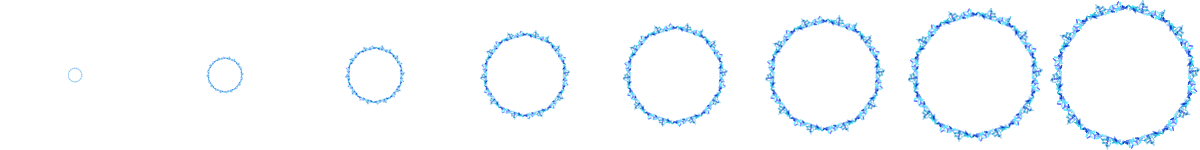
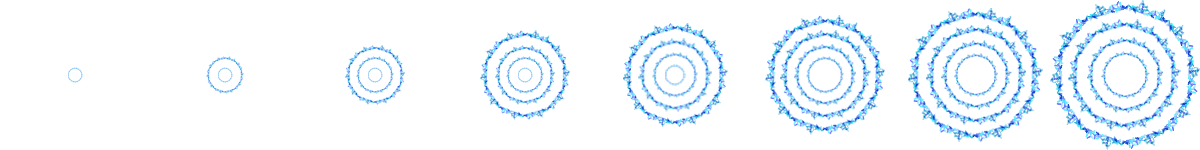
airstrike assets an animations added

diff --git a/main.py b/main.py
@@ -53,7 +53,7 @@ wood_frame_full = pg.image.load('assets/images/ui_backgrounds/wood_frame_full.pn
 health_bar_side_panel = pg.image.load('assets/images/ui_backgrounds/health_bar.png').convert_alpha()
 gold_bar = pg.image.load('assets/images/ui_backgrounds/gold_bar.png').convert_alpha()
 airstrike_banner = pg.image.load('assets/images/ui_backgrounds/airstrike_banner.png').convert_alpha()
-arrow_strike_ability_image = pg.image.load('assets/images/buttons/arrow_strike_button.png').convert_alpha()
+poison_strike_ability_image = pg.image.load('assets/images/buttons/poison_strike_button.png').convert_alpha()
 ice_strike_ability_image = pg.image.load('assets/images/buttons/ice_strike_button.png').convert_alpha()
 fire_strike_ability_image = pg.image.load('assets/images/buttons/fire_strike_button.png').convert_alpha()
 earth_strike_ability_image = pg.image.load('assets/images/buttons/earth_strike_button.png').convert_alpha()
@@ -121,10 +121,6 @@ menu_base_button_image = pg.image.load('assets/images/buttons/Menu_base_button.p
 mute_button_image = pg.image.load('assets/images/buttons/mute_button.png').convert_alpha()
 mute_button_pressed_image = pg.image.load('assets/images/buttons/mute_button_pressed.png').convert_alpha()
 
-#airstrike images
-cursor_ice_airstrike = pg.image.load('assets/images/airstrikes/airstrike_ice_cursor.png').convert_alpha()
-ice_airstrike_sheet = pg.image.load('assets/images/airstrikes/airstrike_ice.png').convert_alpha()
-
 #create groups
 enemy_group = pg.sprite.Group()
 turret_group = pg.sprite.Group()
@@ -153,7 +149,7 @@ upgrade_button = Button(c.SCREEN_WIDTH - 210, 290, upgrade_image,"UPGRADE",0,-13
 sell_button = Button(c.SCREEN_WIDTH - 210, 360, sell_image, "SELL",0,-13,"alt_font",22)
 
 #airstrike buttons
-airstrike_ability = Button((c.SCREEN_WIDTH-c.SIDE_PANEL)/2 - 164, 5, arrow_strike_ability_image)
+airstrike_ability = Button((c.SCREEN_WIDTH-c.SIDE_PANEL)/2 - 164, 5, poison_strike_ability_image)
 airstrike_ability.coin_cost(-22,44,8,45,str(AIRSTRIKE_DATA["airstrike_1"].get("cost")),18)
 airstrike_ability2 = Button((c.SCREEN_WIDTH-c.SIDE_PANEL)/2 - 76, 5, ice_strike_ability_image)
 airstrike_ability2.coin_cost(-22,44,8,45,str(AIRSTRIKE_DATA["airstrike_2"].get("cost")),18)
@@ -815,7 +811,7 @@ while run:
         airstrike_ability.change_cost_color("grey100")
 
       if airstrike_ability.Hovered():
-        draw_text("Arrow Strike",alt_text_font,(255,255,255), 375,125, True)
+        draw_text("Poison Pit",alt_text_font,(255,255,255), 375,125, True)
   
       if airstrike_ability.draw(screen):
         new_aristrike = airstrike("airstrike_1")
@@ -881,16 +877,21 @@ while run:
           placing_ability = False
       else:
         placing_ability = False
+    
+    #activate airstrike
     if active_airstrike:
       active_airstrike.place_ability(enemy_group, screen)
+      active_airstrike.play_animation(screen)
+    
       if active_airstrike.shots_fired < active_airstrike.waves:
-        draw_circ(123, 255, 123, active_airstrike.size, (active_airstrike.x,active_airstrike.y)) #if more airstrikes get more waves change this to include the different colour circles
+          active_airstrike.play_animation(screen)  # Continue playing animation
       if active_airstrike.shots_fired != counter:
-        counter = active_airstrike.shots_fired
-        draw_circ(255, 255, 255, active_airstrike.size, (active_airstrike.x,active_airstrike.y)) #flashes white once the timer is finished
+          counter = active_airstrike.shots_fired
+          active_airstrike.play_animation(screen)  # Flash animation
       if counter >= active_airstrike.waves:
-        counter = 0
-        active_airstrike = None
+          counter = 0
+          active_airstrike.stop_animation()
+          active_airstrike = None
 
     if pause_button.draw(screen):
         paused = True

diff --git a/airstrike.py b/airstrike.py
@@ -4,10 +4,11 @@ import math as math
 import turrets as t
 from airstrike_data import AIRSTRIKE_DATA
 
-class airstrike ():
-    def __init__(self,airstrike_name):
+class airstrike(pg.sprite.Sprite):
+    def __init__(self, airstrike_name):
+        super().__init__()
         self.airstrike_name = airstrike_name
-        self.type = AIRSTRIKE_DATA.get(airstrike_name, [])
+        self.type = AIRSTRIKE_DATA.get(airstrike_name, {})
         self.damage = self.type.get("damage")
         self.size = self.type.get("size")
         self.cooldown = self.type.get("cooldown")
@@ -20,8 +21,14 @@ class airstrike ():
         self.next_shot_time = 0
         self.x = 0
         self.y = 0
+        self.frames = self.extract_frames(self.type.get("spritesheet"), 150, 150, 8, 1)
+        self.current_frame = 0
+        self.image = self.frames[self.current_frame]
+        self.rect = self.image.get_rect()
+        self.animation_start_time = 0
+        self.animation_playing = False
 
-    def wait(self,wait_time, start_time):
+    def wait(self, wait_time, start_time):
         return pg.time.get_ticks() >= start_time + wait_time
 
     def place_ability(self, enemy_group, screen):
@@ -36,7 +43,7 @@ class airstrike ():
                     if dist < self.size:
                         element_damage = t.damage_calc(self.element, enemy)
                         enemy.health -= self.damage * element_damage
-                        print (element_damage)
+                        print(element_damage)
             self.last_shot = current_time
             self.shots_fired += 1
             if self.shots_fired >= self.waves:
@@ -44,22 +51,41 @@ class airstrike ():
             else:
                 self.next_shot_time = current_time
 
-
-    def start(self,cursor_pos):
+    def start(self, cursor_pos):
         self.x = cursor_pos[0]
         self.y = cursor_pos[1]
         self.running = True
         self.shots_fired = 0
         self.next_shot_time = 0
+        self.animation_start_time = pg.time.get_ticks()
+        self.animation_playing = True
 
-    
+    def extract_frames(self, spritesheet_path, frame_width, frame_height, columns, rows):
+        spritesheet = pg.image.load(spritesheet_path).convert_alpha()
+        frames = []
+        for row in range(rows):
+            for col in range(columns):
+                frame_rect = pg.Rect(col * frame_width, row * frame_height, frame_width, frame_height)
+                frame_image = pg.Surface((frame_width, frame_height), pg.SRCALPHA)
+                frame_image.blit(spritesheet, (0, 0), frame_rect)
+                frames.append(frame_image)
+        return frames
 
+    def play_animation(self, screen, frame_rate=100):
+        if not self.animation_playing:
+            return
+        print(self.type.get("spritesheet"))
+        current_time = pg.time.get_ticks()
+        if current_time - self.animation_start_time > frame_rate:
+            self.animation_start_time = current_time
+            self.current_frame = (self.current_frame + 1) % len(self.frames)
+            self.image = self.frames[self.current_frame]
 
+        self.rect.center = (self.x, self.y)
+        screen.blit(self.image, self.rect)
 
+    def is_animation_playing(self):
+        return self.animation_playing
 
-    
-
- 
-
-
-
+    def stop_animation(self):
+        self.animation_playing = False

diff --git a/airstrike_data.py b/airstrike_data.py
@@ -5,30 +5,34 @@ AIRSTRIKE_DATA = {
         "size" : 50,
         "cost" : 100,
         "waves" : 3,
-        "element": "N"
+        "element": "N",
+        "spritesheet": 'assets/images/airstrikes/airstrike_poison.png'
     },
     "airstrike_2": {
         "damage" : 10,
         "cooldown" : 500,
         "size" : 70,
         "cost" : 300,
-        "waves" : 1,
-        "element": "F"
+        "waves" : 3,
+        "element": "F",
+        "spritesheet": 'assets/images/airstrikes/airstrike_ice.png'
     },
     "airstrike_3": {
         "damage" : 12,
         "cooldown" : 500,
         "size" : 80,
         "cost" : 350,
-        "waves" : 1,
-        "element": "E"
+        "waves" : 3,
+        "element": "E",
+        "spritesheet": 'assets/images/airstrikes/airstrike_fire.png'
     },
     "airstrike_4": {
         "damage" : 15,
         "cooldown" : 500,
         "size" : 80,
         "cost" : 400,
-        "waves" : 1,
-        "element": "I"
+        "waves" : 3,
+        "element": "I",
+        "spritesheet": 'assets/images/airstrikes/airstrike_earth.png'
     }
 }
